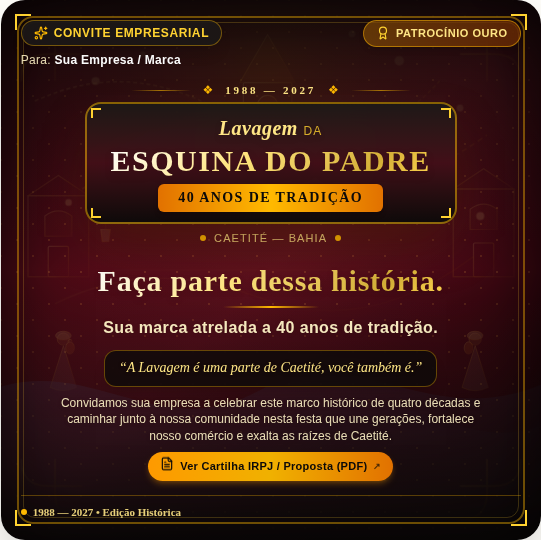
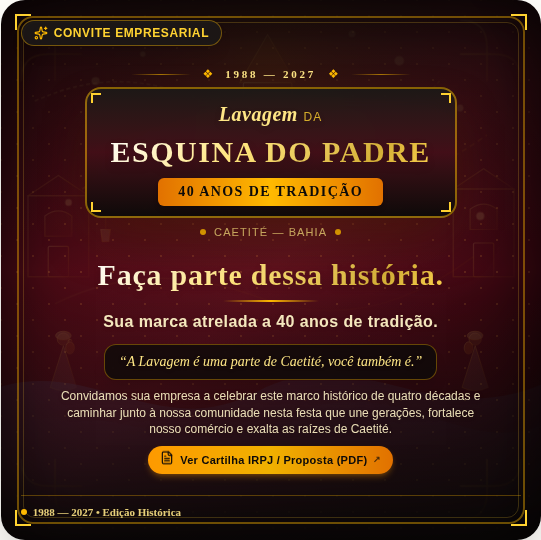
Impede que "da" caia sobre o título do emblema
Relatado um convite em que o "da" de "Lavagem da" aparecia sobreposto
a "ESQUINA DO PADRE". A linha podia quebrar, e a segunda linha caía
sobre o título logo abaixo.

A linha passa a ser inquebrável e as duas ganham entrelinha explícita,
de modo que a distância entre elas não dependa mais da métrica da
fonte que o navegador conseguir carregar.

Claude-Session: https://claude.ai/code/session_01Ac6jpR8AQ5GFf6UGNgPY77

diff --git a/src/components/OfficialEmblem.tsx b/src/components/OfficialEmblem.tsx
@@ -67,10 +67,12 @@ export const OfficialEmblem: React.FC<OfficialEmblemProps> = ({
 
         {/* Script Title */}
         <div className="flex flex-col items-center">
-          <span className="font-playfair italic text-amber-200 text-base sm:text-lg md:text-xl font-bold tracking-wide drop-shadow-md">
+          {/* Kept on one line: if "da" wraps, it lands on top of the title below,
+              which happens once a fallback font renders the line wider. */}
+          <span className="font-playfair italic text-amber-200 text-base sm:text-lg md:text-xl font-bold tracking-wide drop-shadow-md whitespace-nowrap leading-normal">
             Lavagem <span className="font-sans text-[10px] sm:text-xs font-normal text-amber-300/80 not-italic tracking-widest uppercase">da</span>
           </span>
-          <h2 className="font-cinzel text-lg sm:text-2xl md:text-3xl font-black tracking-wider text-gold-bright drop-shadow-lg leading-tight uppercase truncate max-w-[260px] sm:max-w-none">
+          <h2 className="font-cinzel text-lg sm:text-2xl md:text-3xl font-black tracking-wider text-gold-bright drop-shadow-lg leading-normal uppercase truncate max-w-[260px] sm:max-w-none">
             Esquina do Padre
           </h2>
         </div>
